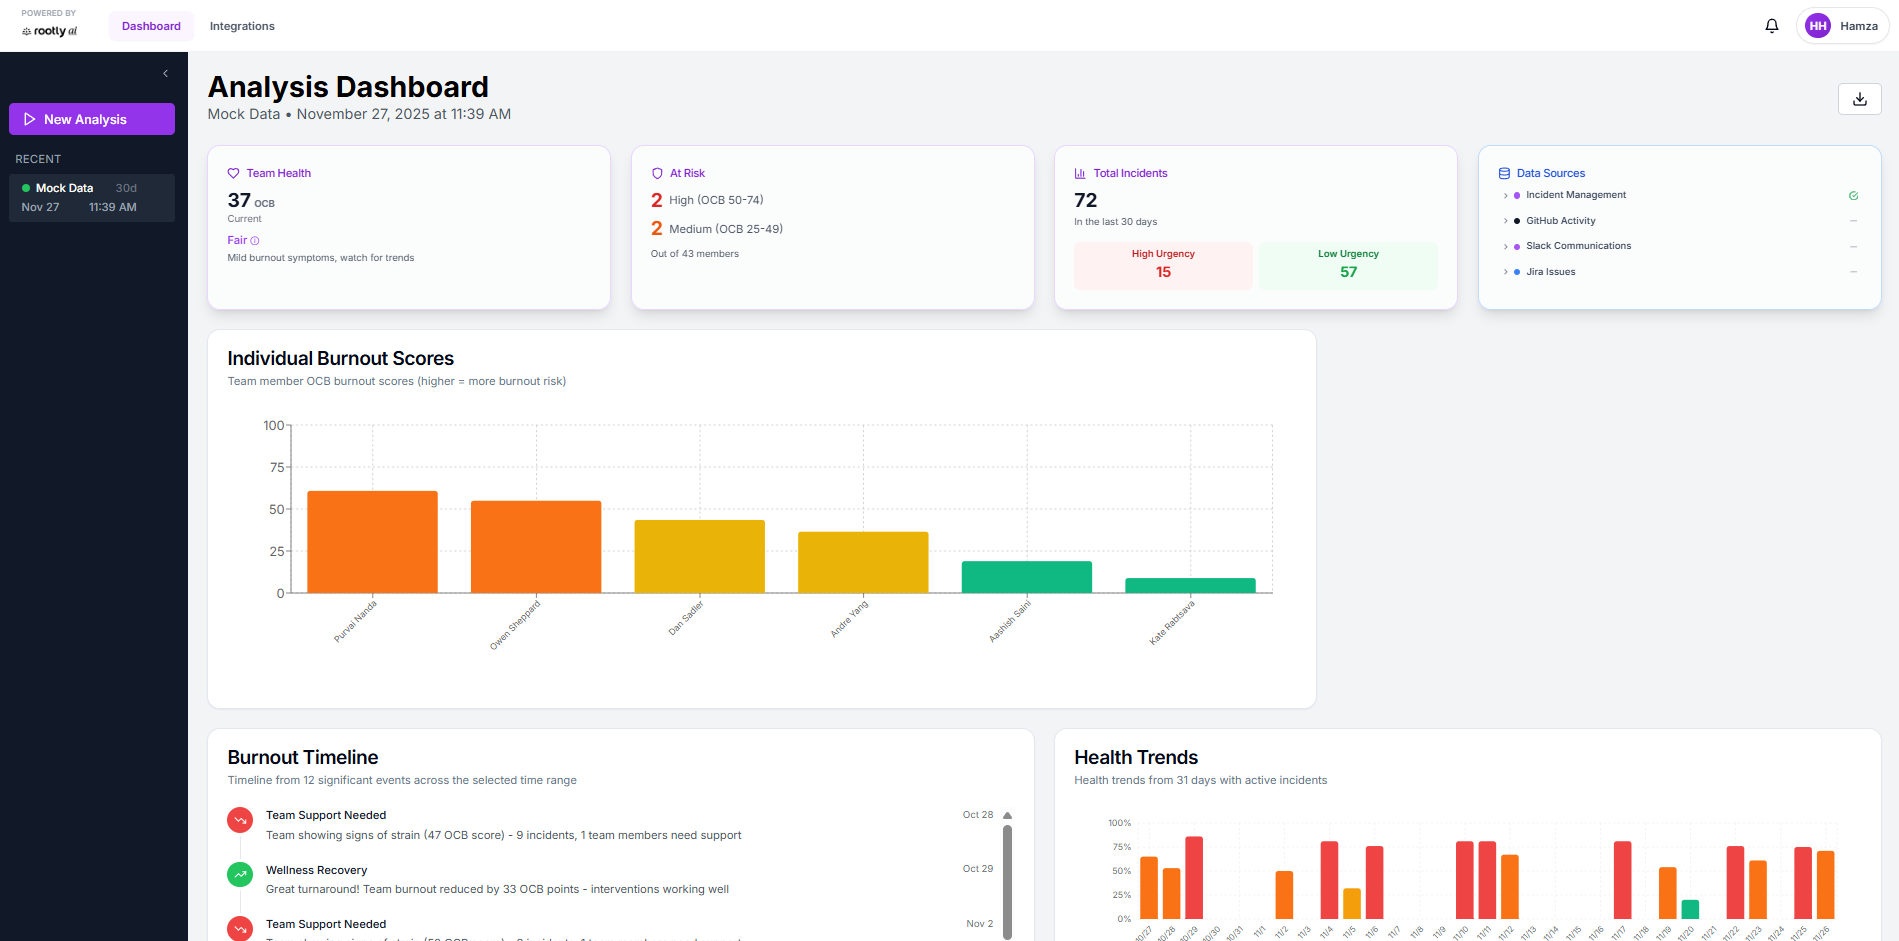
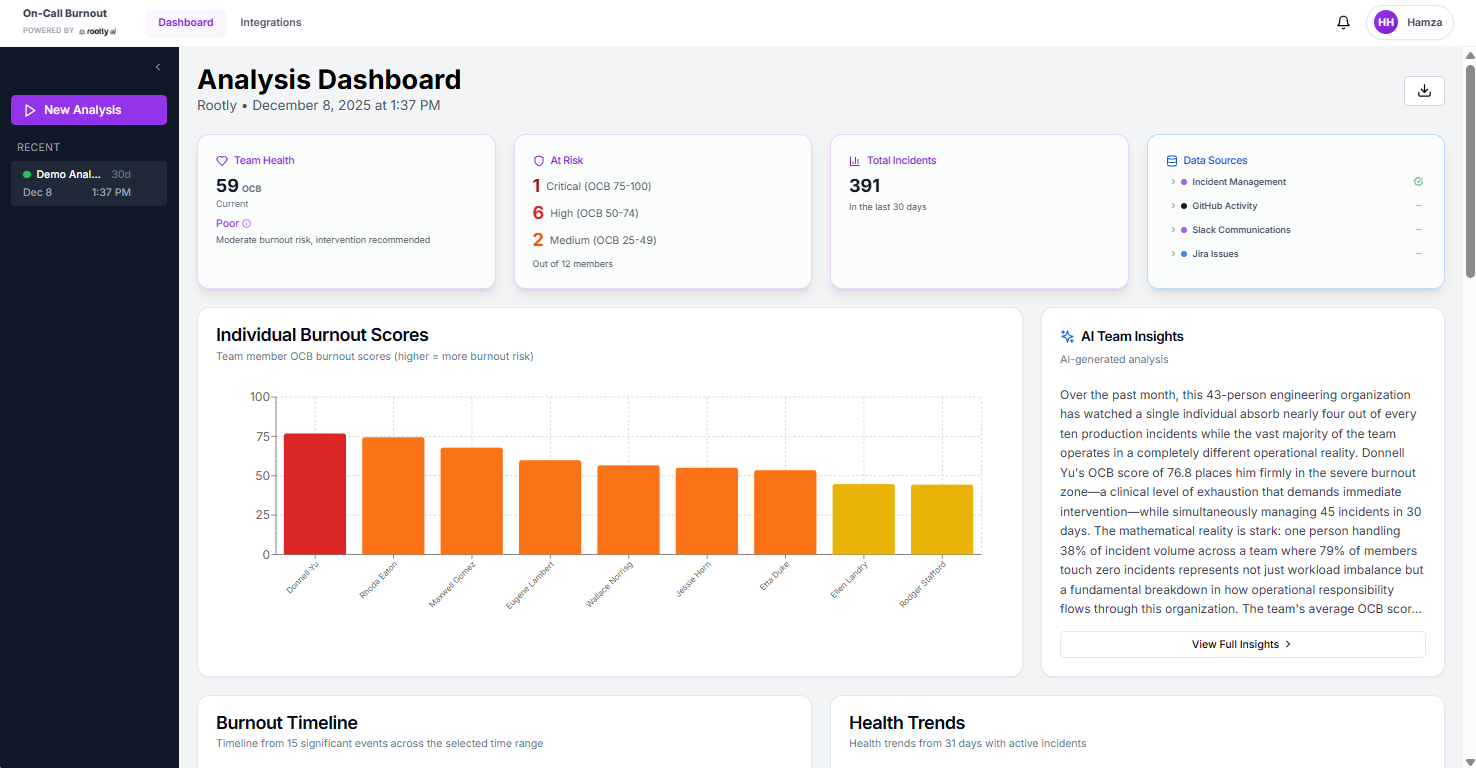
updated intro slide ss, and fixed res issue

diff --git a/frontend/src/components/IntroGuide.tsx b/frontend/src/components/IntroGuide.tsx
@@ -107,8 +107,8 @@ function IntroGuide({ isOpen, currentStep, onNext, onPrev, onClose }: IntroGuide
                   <Image
                     src={step.image || "/placeholder.svg"}
                     alt="Dashboard with Mock Data"
-                    width={500}
-                    height={280}
+                    width={1200}
+                    height={675}
                     className="w-full h-auto"
                     priority
                     quality={100}
@@ -144,8 +144,8 @@ function IntroGuide({ isOpen, currentStep, onNext, onPrev, onClose }: IntroGuide
                     <Image
                       src={step.images[0] || "/placeholder.svg"}
                       alt="Integrations Page"
-                      width={500}
-                      height={320}
+                      width={1200}
+                      height={768}
                       className="w-full h-auto"
                       priority
                       quality={100}
@@ -164,8 +164,8 @@ function IntroGuide({ isOpen, currentStep, onNext, onPrev, onClose }: IntroGuide
                     <Image
                       src={step.images[1] || "/placeholder.svg"}
                       alt="Team Members Modal"
-                      width={350}
-                      height={320}
+                      width={840}
+                      height={768}
                       className="w-full h-auto"
                       priority
                       quality={100}
@@ -188,8 +188,8 @@ function IntroGuide({ isOpen, currentStep, onNext, onPrev, onClose }: IntroGuide
                   <Image
                     src={step.images[1] || "/placeholder.svg"}
                     alt="Methodology Page"
-                    width={350}
-                    height={230}
+                    width={840}
+                    height={552}
                     className="w-full h-auto"
                     priority
                     quality={100}
